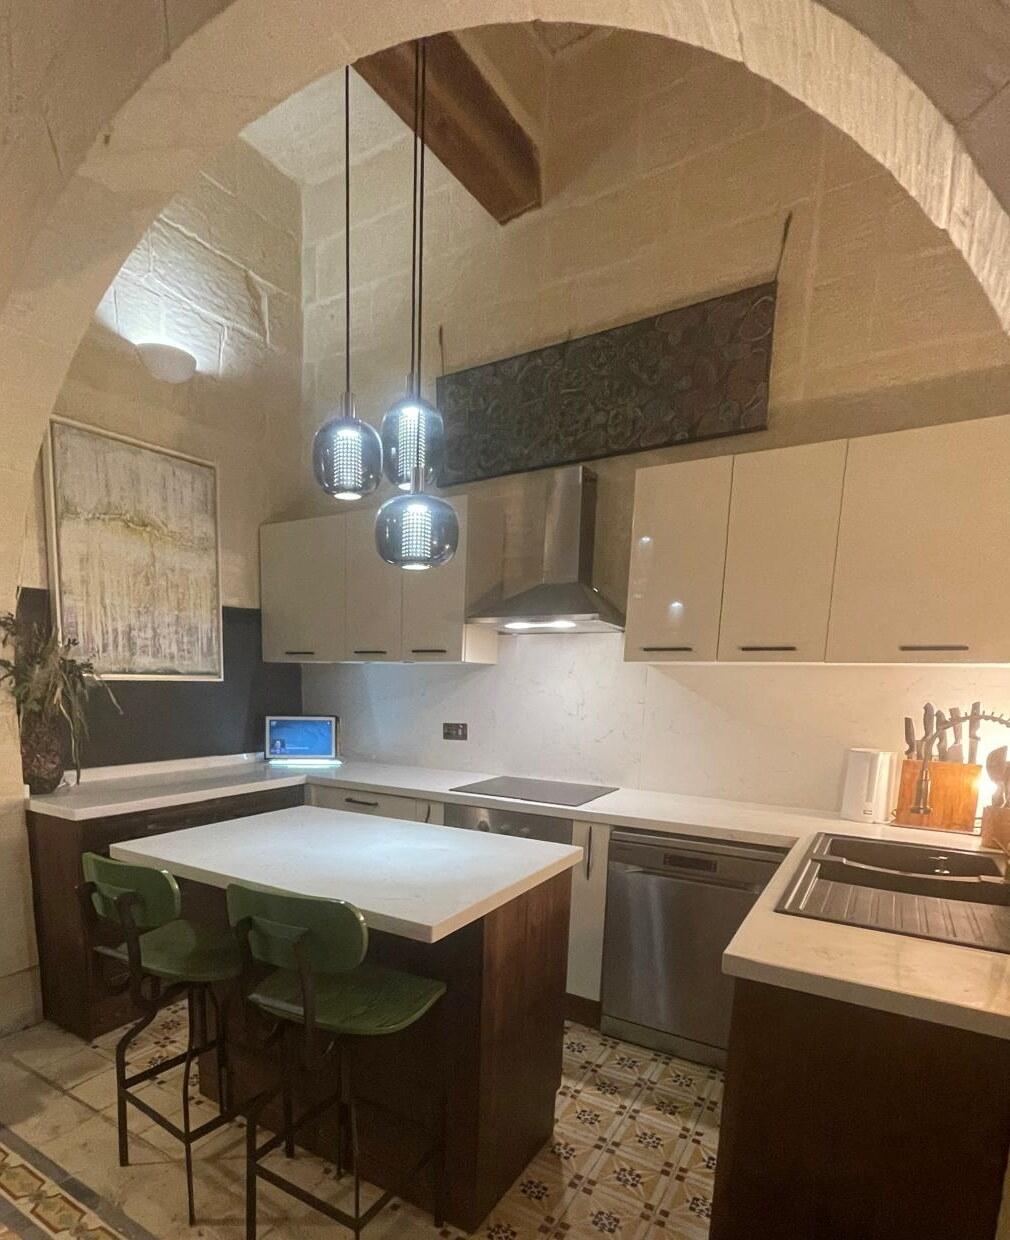
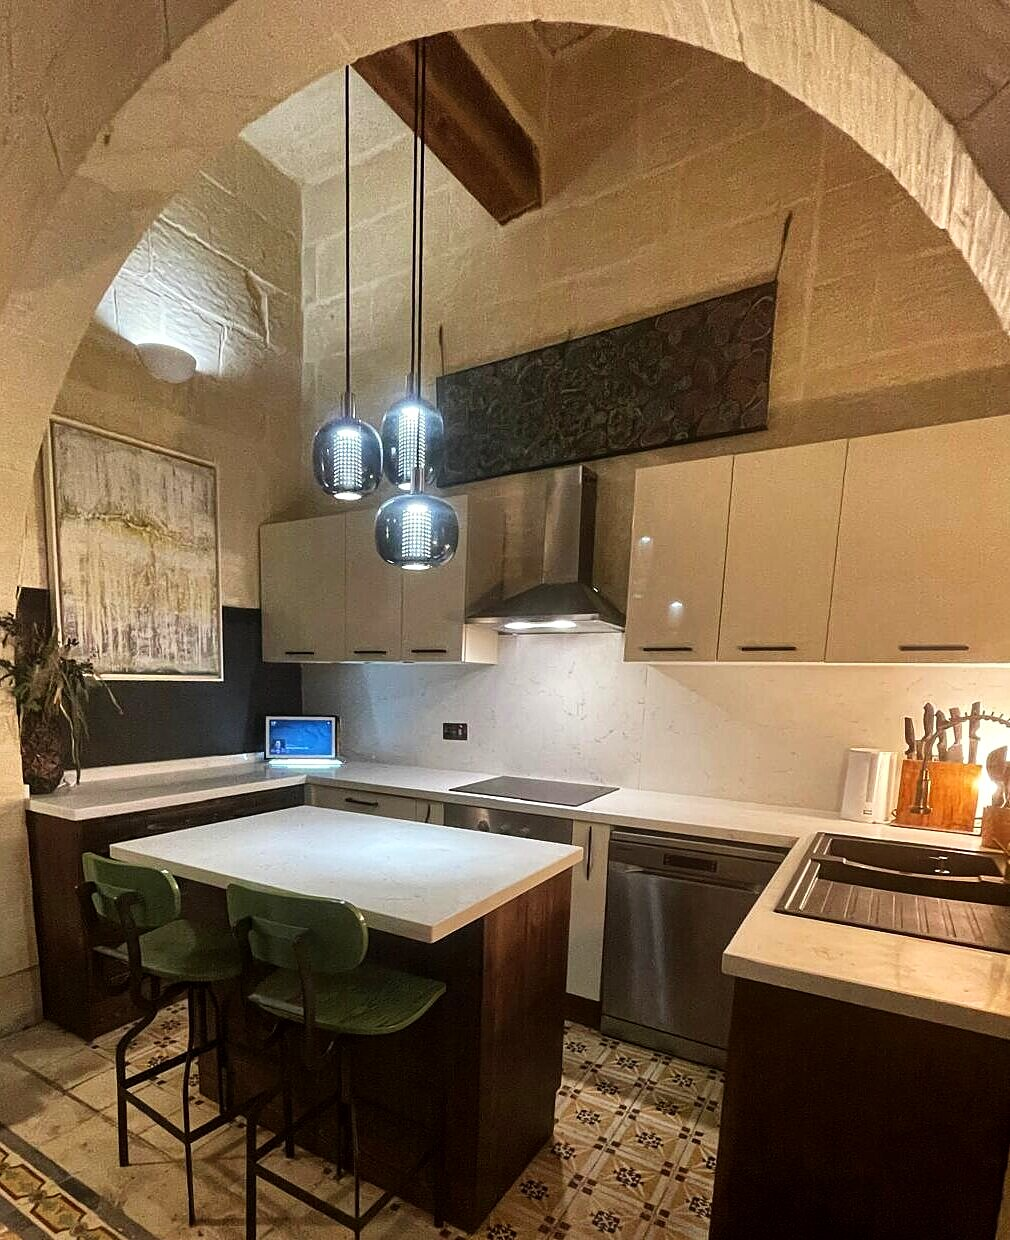
feat: dehaze seven interior photos

diff --git a/index.html b/index.html
@@ -16,7 +16,7 @@
   <link rel="preconnect" href="https://fonts.googleapis.com">
   <link rel="preconnect" href="https://fonts.gstatic.com" crossorigin>
   <link rel="stylesheet" href="https://fonts.googleapis.com/css2?family=Archivo:wdth,wght@62..125,100..900&family=IBM+Plex+Mono&display=swap">
-  <link rel="stylesheet" href="/assets/site.css?v=20261107-nonum">
+  <link rel="stylesheet" href="/assets/site.css?v=20261107-dehaze">
 </head>
 <body>
   <header class="wrap bar">
